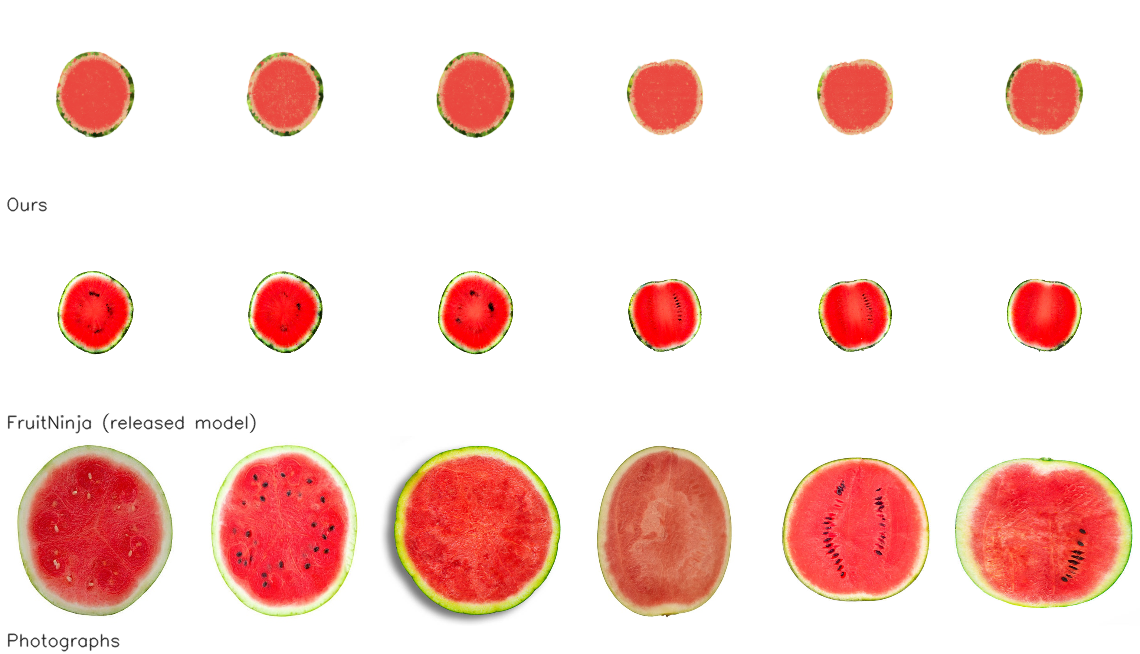
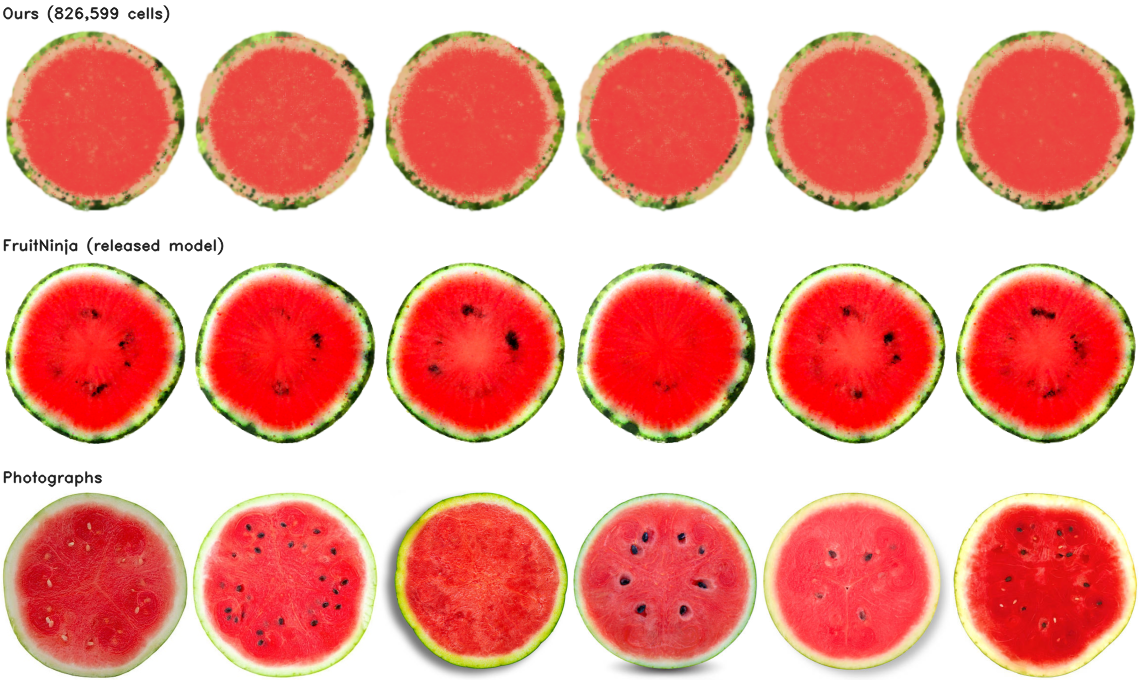
Drop the falling-slices run; rebuild the watermelon from the finished model
The held-out watermelon figure was rendered with no HELDOUT_BAND, so the cuts
were the outer eighths -- shallow caps of rind and pith, which is not the kind
of picture the photographs are. Rebuilt on the middle band from wmc, the run on
the sealed shell, against the filled released model rather than the surface-only
one, which cut hollow.

diff --git a/index.html b/index.html
@@ -323,8 +323,8 @@ The representation is an order of magnitude cheaper, tracks the photographs' own
   <tbody>
     <tr><td><strong>Cost</strong></td><td>Primitives, orange</td><td>3,928,330</td><td class="win">898,563</td><td>4.4× fewer</td></tr>
     <tr><td></td><td>Parameters, orange</td><td>55.0M</td><td class="win">7.2M</td><td>7.6× fewer</td></tr>
-    <tr><td></td><td>Primitives, watermelon</td><td>7,959,789</td><td class="win">806,506</td><td>9.9× fewer</td></tr>
-    <tr><td></td><td>Parameters, watermelon</td><td>111.4M</td><td class="win">6.5M</td><td>17.2× fewer</td></tr>
+    <tr><td></td><td>Primitives, watermelon</td><td>7,959,789</td><td class="win">826,599</td><td>9.6× fewer</td></tr>
+    <tr><td></td><td>Parameters, watermelon</td><td>111.4M</td><td class="win">6.6M</td><td>16.8× fewer</td></tr>
     <tr><td><strong>Detail</strong></td><td>Spectral power at f/16 (photographs: 0.00142)</td><td>0.00203</td><td class="win">0.00109</td><td>closer to the reference</td></tr>
     <tr><td></td><td>Section lost to gaps, 2048 px</td><td>29.58%</td><td class="win">0.19%</td><td>156× less</td></tr>
     <tr><td></td><td>Section lost to gaps, 4096 px</td><td>72.69%</td><td class="win">0.23%</td><td>316× less</td></tr>
@@ -398,18 +398,7 @@ that resolving contact cannot deform a slice.
 
 
 
-<figure><img src="assets/slices_plot.png" alt="Pieces, contact and penetration depth over time">
-  <figcaption><strong>Contact, measured.</strong> An orange is cut into five slices by four
-  simultaneous planes, which fall onto a floor and settle into a stack. The occupancy grid answers
-  the contact query directly: a particle is inside another piece exactly when it lands in one of
-  that piece's occupied cells, which is a lookup, and the way out is the vector to the nearest free
-  cell, which one distance transform returns for every particle at once. The pieces then separate
-  along the mean of those directions, by the depth of the deepest, as a rigid translation — so
-  resolving contact cannot deform a slice. Penetration deeper than a cell (red) is present on one
-  frame of 170 and is zero from frame&nbsp;36 on, peaking at 2.0 cells; the grey band is the
-  contact footprint, the surface over which the stack rests, which is what a standing stack is
-  supposed to have. Labelling costs 309&nbsp;ms per cut, once, on 898,563
-  cells.</figcaption></figure>
+
 
 <figure>
   <img src="assets/cutting.png" alt="Piece count and contacts over time">
@@ -479,8 +468,13 @@ and nothing in the pipeline is told the object has a hole.</figcaption>
 
 <figure><img src="assets/interior_orange.png" alt="Orange, held-out cuts"></figure>
 <figure><img src="assets/interior_watermelon.png" alt="Watermelon, held-out cuts">
-  <figcaption>Held-out cuts — depths and angles the training never sampled, scored with FID<sup class="cite">[43]</sup>, KID<sup class="cite">[44]</sup> and CLIP<sup class="cite">[42]</sup>. Both models measured under the identical protocol on the same machine, rather than quoting published numbers computed
-  differently.</figcaption></figure>
+  <figcaption>Held-out cuts of the watermelon — depths the training never sampled, rendered from
+  826,599 cells against the released model's 7,959,789. The rind, pith and flesh come out in the
+  right order and at the right relative thickness at every depth, on a shell that was sealed on the
+  lattice before anything was painted: the released capture's skin covers only 84.5% of its own
+  silhouette, and the 15.5% that is missing is where a red interior would otherwise show through.
+  Both models were measured under the identical protocol on the same machine, rather than quoting
+  published numbers computed differently.</figcaption></figure>
 <div class="tw"><table>
   <thead><tr><th>Object</th><th>Method</th><th>FID h ↓</th><th>KID h ↓</th><th>FID v ↓</th><th>KID v ↓</th><th>Cos ↑</th></tr></thead>
   <tbody>
